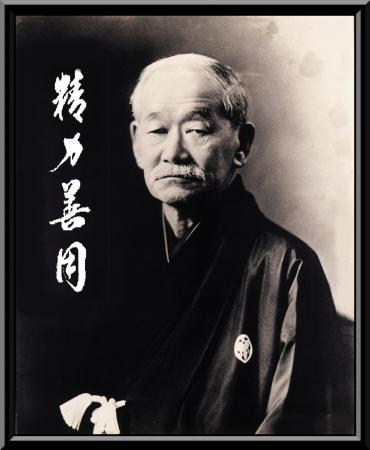
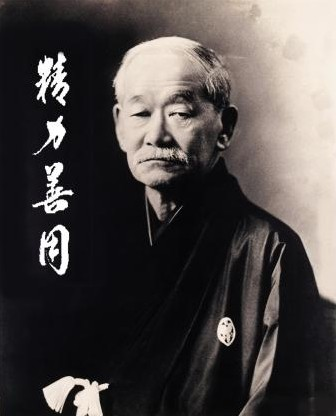
Matrice : le portrait de Kano recadré (sans son liseré), dans un vrai cadre laqué noir avec passe-partout, au-dessus du capitonnage
Claude-Session: https://claude.ai/code/session_01WYc8bcxVUTnPR8YQxCHawi

diff --git a/public/matrice.js b/public/matrice.js
@@ -2204,8 +2204,11 @@ function troisiemeCour(A, L, scene) {
             x.fillStyle = "#1a1816"; x.beginPath(); x.ellipse(w * .6, h * .3, 62, 78, 0, 0, 7); x.fill(); x.beginPath(); x.moveTo(w * .25, h); x.quadraticCurveTo(w * .3, h * .5, w * .6, h * .48); x.quadraticCurveTo(w * .95, h * .5, w, h); x.fill();
             x.fillStyle = "#f4f2ea"; x.font = "bold 56px serif"; x.textAlign = "center"; ["精", "力", "善", "用"].forEach((k, i) => x.fillText(k, 70, 100 + i * 72)); }); tK.image = c; tK.needsUpdate = true; };
         imgK.src = "images/judo/kano.jpg";
-        A.ajoute(new THREE.BoxGeometry(.06, 1.38, 1.14), A.mat({ color: 0x1a1a1a, roughness: .5 }), X0 + .04, FL + 2.0, zc, false);   // le cadre noir
-        const ph = A.ajoute(new THREE.PlaneGeometry(1.0, 1.22), A.mat({ map: tK, roughness: .7 }), X0 + .08, FL + 2.0, zc, false); ph.rotation.y = Math.PI / 2; }
+        const yK = FL + 2.4, laque = A.mat({ color: 0x17120e, roughness: .35 });   // (au-dessus du capitonnage, centré sur le mur)
+        A.ajoute(new THREE.BoxGeometry(.02, 1.36, 1.14), A.mat({ color: 0xf1ece0, roughness: .9 }), X0 + .02, yK, zc, false);   // le passe-partout crème
+        A.ajoute(new THREE.BoxGeometry(.012, 1.134, .92), A.mat({ color: 0x3a3430 }), X0 + .034, yK, zc, false);                  // son filet sombre, autour de la photo
+        for (const s of [-1, 1]) { A.ajoute(new THREE.BoxGeometry(.06, 1.5, .07), laque, X0 + .03, yK, zc + s * .605, false); A.ajoute(new THREE.BoxGeometry(.06, .07, 1.28), laque, X0 + .03, yK + s * .715, zc, false); }   // le cadre, en bois laqué noir
+        const ph = A.ajoute(new THREE.PlaneGeometry(.9, 1.114), A.mat({ map: tK, roughness: .6 }), X0 + .042, yK, zc, false); ph.rotation.y = Math.PI / 2; }
       const hor = toile(128, 128, (x) => { x.fillStyle = "#fbfaf6"; x.beginPath(); x.arc(64, 64, 60, 0, 7); x.fill(); x.lineWidth = 6; x.strokeStyle = "#7a1e1e"; x.stroke(); x.fillStyle = "#222"; for (let i = 0; i < 12; i++) { const a = i * Math.PI / 6; x.fillRect(64 + Math.cos(a) * 48 - 3, 64 + Math.sin(a) * 48 - 3, 6, 6); }
         x.strokeStyle = "#111"; x.lineWidth = 5; x.beginPath(); x.moveTo(64, 64); x.lineTo(64, 28); x.moveTo(64, 64); x.lineTo(90, 72); x.stroke(); });
       { const h2 = A.ajoute(new THREE.CircleGeometry(.25, 24), A.mat({ map: tex(hor) }), (OX0 + X0) / 2 + 4, FL + 2.8, Z0 + .02, false); }
